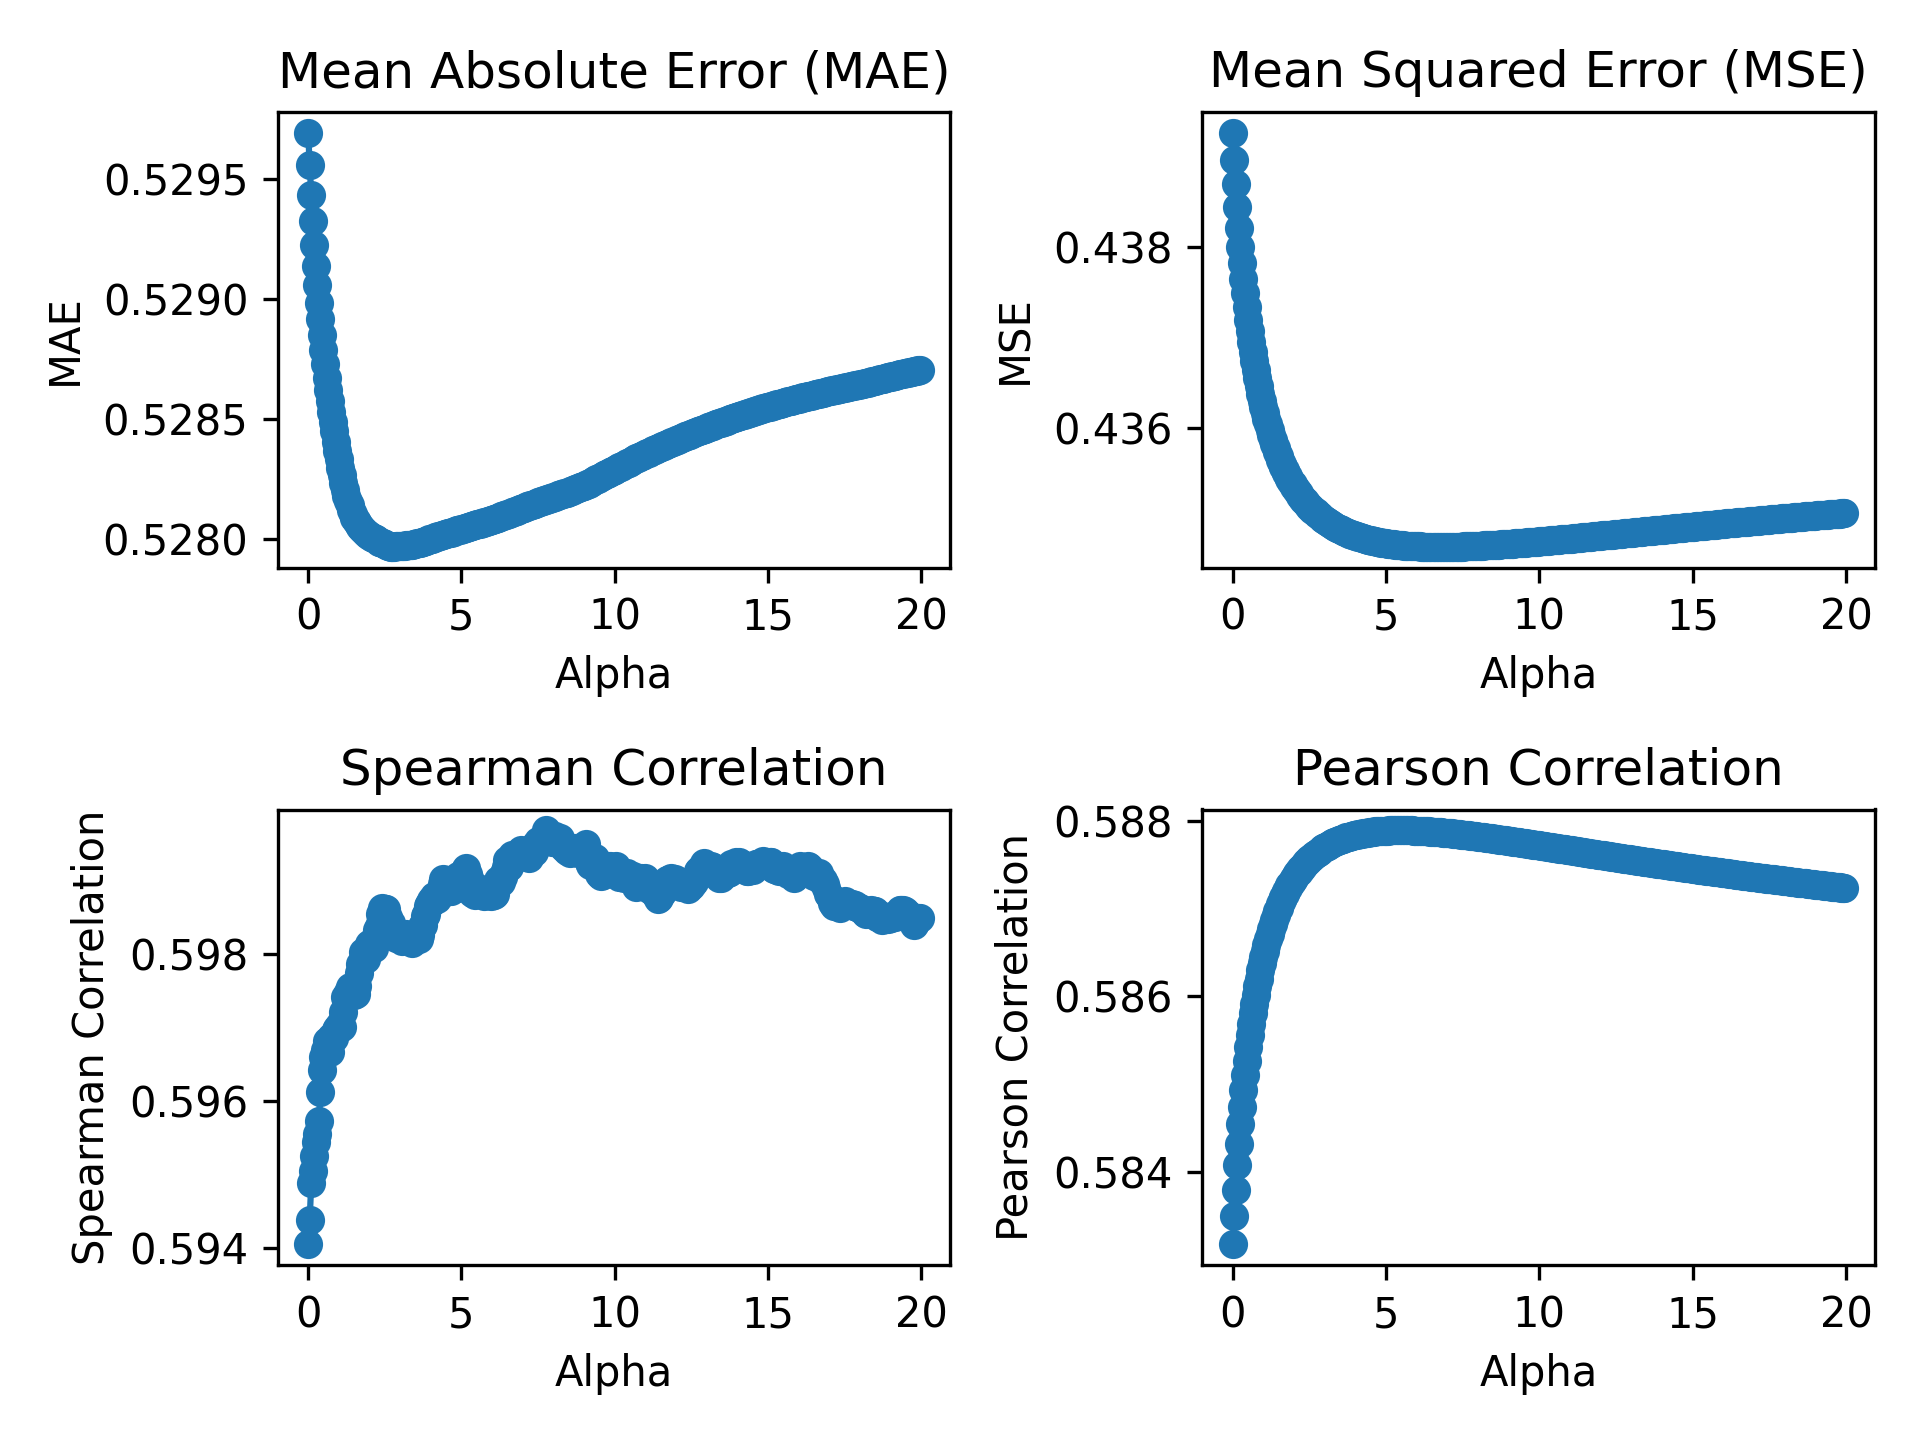
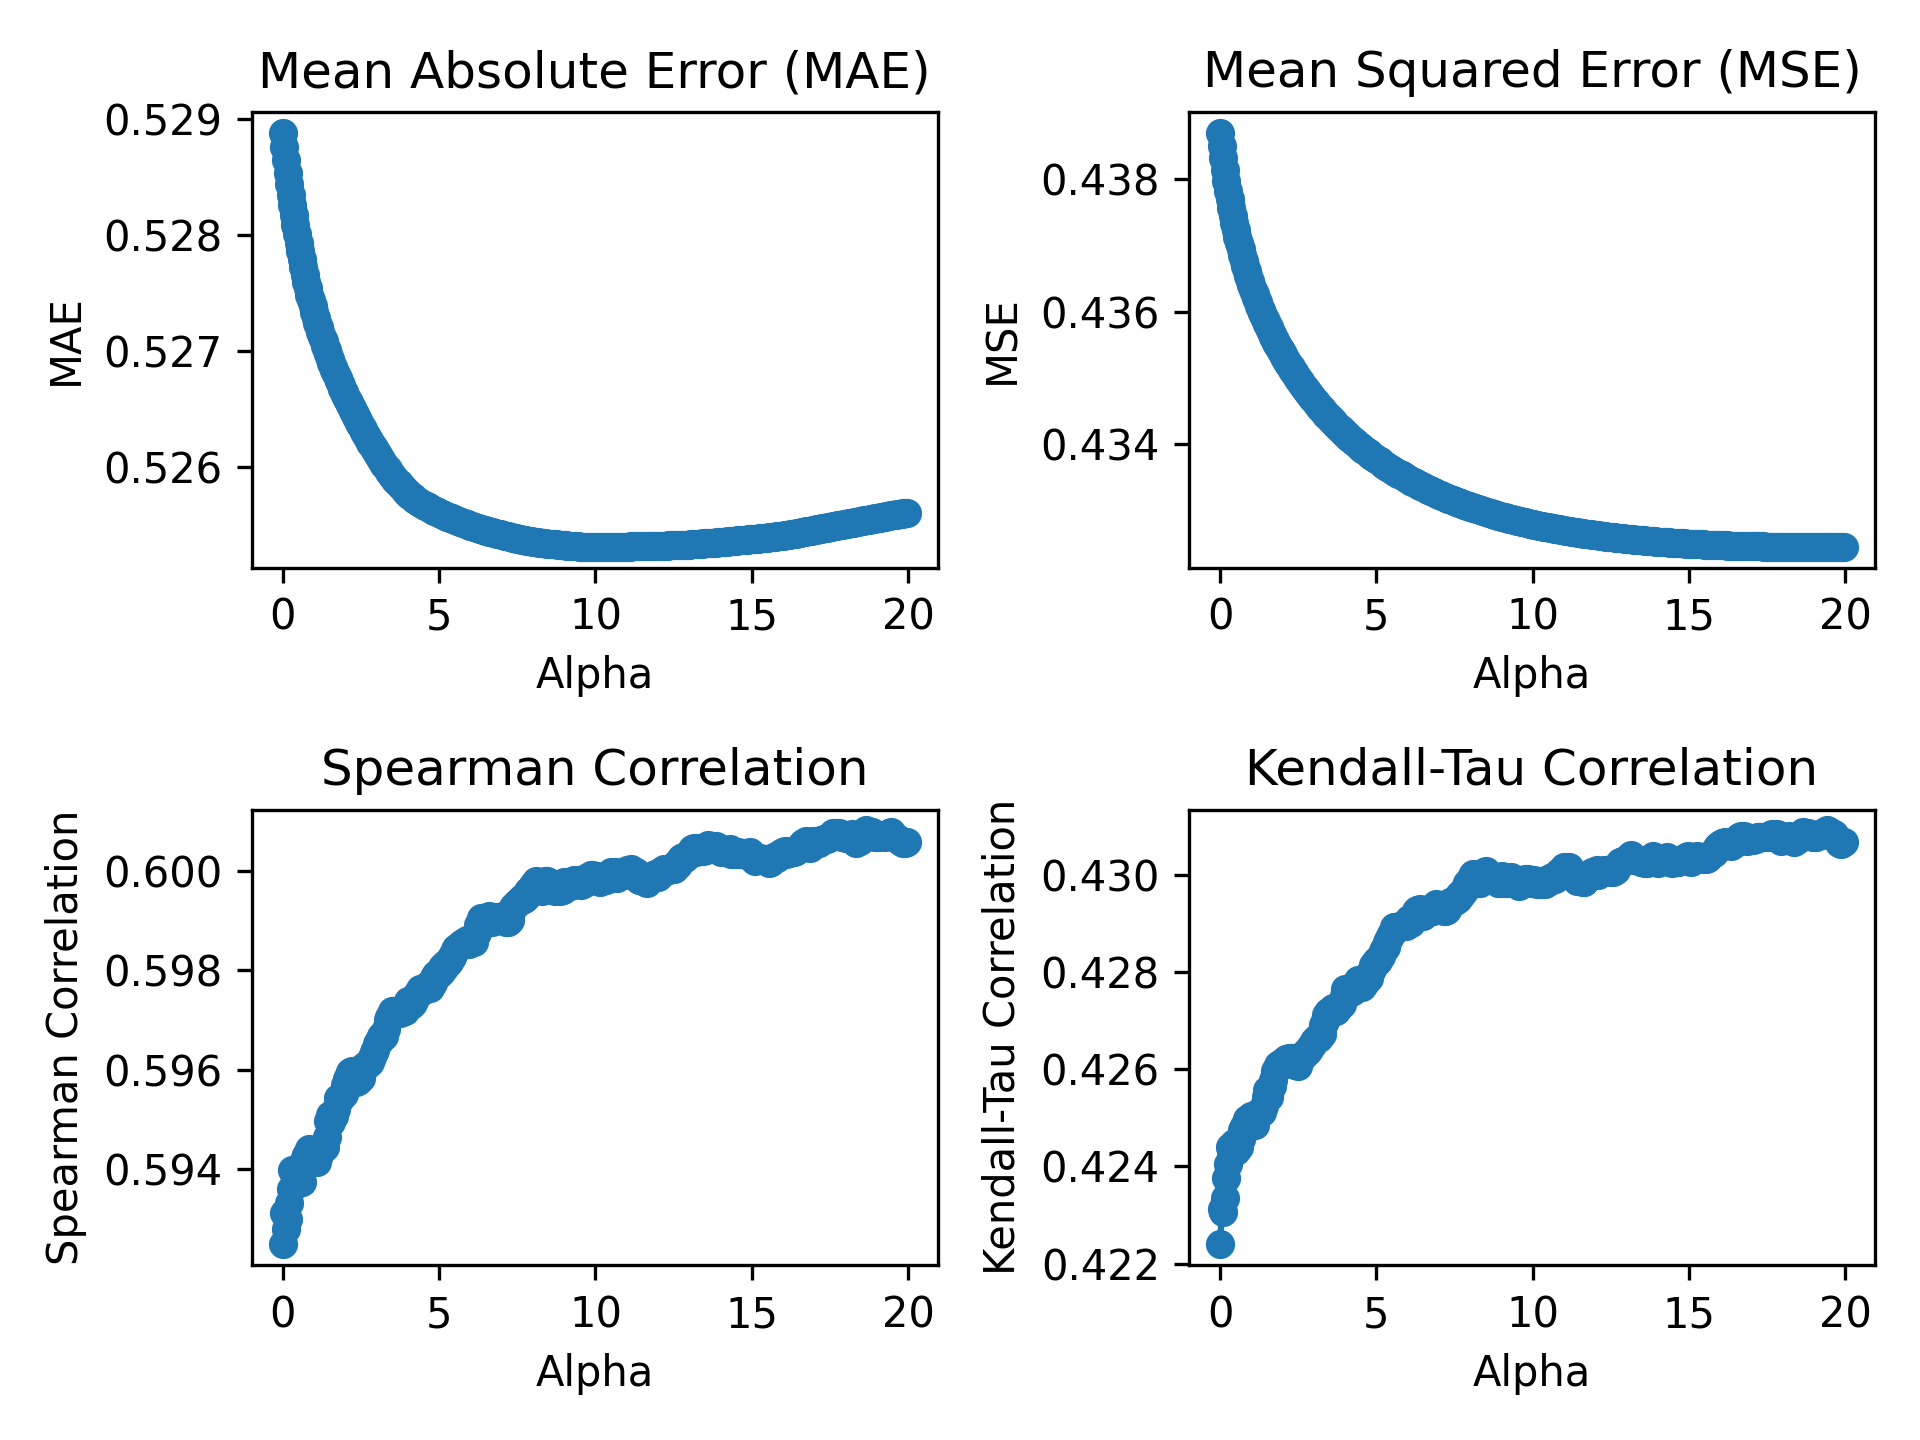
added modifications to the score

diff --git a/solution-word2vec-kaggle.py b/solution-word2vec-kaggle.py
@@ -10,7 +10,7 @@ from nltk import download
 import matplotlib.pyplot as plt
 from sklearn.metrics import mean_squared_error, mean_absolute_error
 from nltk.corpus import stopwords
-from scipy.stats import spearmanr, pearsonr, alpha
+from scipy.stats import spearmanr, kendalltau
 from gensim.models import Word2Vec
 from sklearn.preprocessing import StandardScaler
 from sklearn.linear_model import Ridge
@@ -30,7 +30,7 @@ DEBUG_MODE = os.environ.get("DEBUG_MODE", True)
 SCRIPT_ENVIRONMENT = os.environ.get("SCRIPT_ENVIRONMENT", "development")  # or kaggle
 WORD_TOKENIZATION = os.environ.get("WORD_TOKENIZATION", "sentencepiece")  # or sentencepiece
 
-MODEL_TYPE = ModelType.RIDGE_REGRESSION_MODEL if int(
+MODEL_TYPE = ModelType.XGBOOST_REGRESSION_MODEL if int(
     os.environ.get("MODEL_TYPE", ModelType.XGBOOST_REGRESSION_MODEL.value[0])
 ) == 1 else ModelType.RIDGE_REGRESSION_MODEL
 print(f'Initialized with the model: {MODEL_TYPE}')
@@ -170,11 +170,21 @@ if __name__ == "__main__":
             subsample=0.8,
         )
         model.fit(X['train'], y['train'])
+
+        if SCRIPT_ENVIRONMENT == "development":
+            validation_predict_scores = model.predict(X['validation'])
+
+            mse = mean_squared_error(y['validation'], validation_predict_scores)
+            mae = mean_absolute_error(y['validation'], validation_predict_scores)
+            spearman_corr = spearmanr(y['validation'], validation_predict_scores).correlation
+            kendall_corr = kendalltau(y['validation'], validation_predict_scores).correlation
+
+            print(f'[XGB Regression] MSE: {mse:.7f}, MAE: {mae:.7f}, S: {spearman_corr:.7f}, KT: {kendall_corr:.7f}.')
     elif MODEL_TYPE == ModelType.RIDGE_REGRESSION_MODEL:
         alphas = np.arange(0.0, 20.0, 0.05)
 
         maximum_spearman_correlation, new_model = -np.inf, None
-        validation_mae, validation_mse, validation_spearman, validation_pearson = [], [], [], []
+        validation_mae, validation_mse, validation_spearman, validation_kendall = [], [], [], []
         for alpha in alphas:
             model = Ridge(random_state=63145, alpha=alpha)
             model.fit(X['train'], y['train'])
@@ -185,21 +195,22 @@ if __name__ == "__main__":
                 mse = mean_squared_error(y['validation'], validation_predict_scores)
                 mae = mean_absolute_error(y['validation'], validation_predict_scores)
                 spearman_corr = spearmanr(y['validation'], validation_predict_scores).correlation
-                pearson_corr = pearsonr(y['validation'], validation_predict_scores).correlation
+                kendall_corr = kendalltau(y['validation'], validation_predict_scores).correlation
 
                 print(f'[Ridge Regression] For alpha = {alpha} we have, '
-                      f'MSE: {mse:.7f}, MAE: {mae:.7f}, S: {spearman_corr:.7f}, P: {pearson_corr:.7f}.')
+                      f'MSE: {mse:.7f}, MAE: {mae:.7f}, S: {spearman_corr:.7f}, KT: {kendall_corr:.7f}.')
 
                 validation_mae.append(mae)
                 validation_mse.append(mse)
                 validation_spearman.append(spearman_corr)
-                validation_pearson.append(pearson_corr)
+                validation_kendall.append(kendall_corr)
 
                 if spearman_corr > maximum_spearman_correlation:
                     maximum_spearman_correlation = spearman_corr
                     new_model = deepcopy(model)
 
-                    print(f"[Ridge Regression] New model was saved during the training with the parameter alpha = {alpha}")
+                    print(
+                        f"[Ridge Regression] New model was saved during the training with the parameter alpha = {alpha}")
 
         if SCRIPT_ENVIRONMENT == "development":
             plt.subplot(2, 2, 1)
@@ -224,10 +235,10 @@ if __name__ == "__main__":
 
             # Plot Pearson Correlation
             plt.subplot(2, 2, 4)
-            plt.plot(alphas, validation_pearson, marker='o')
-            plt.title('Pearson Correlation')
+            plt.plot(alphas, validation_kendall, marker='o')
+            plt.title('Kendall-Tau Correlation')
             plt.xlabel('Alpha')
-            plt.ylabel('Pearson Correlation')
+            plt.ylabel('Kendall-Tau Correlation')
 
             plt.tight_layout()
             plt.savefig("validation_metrics_ridge.png", dpi=300)
